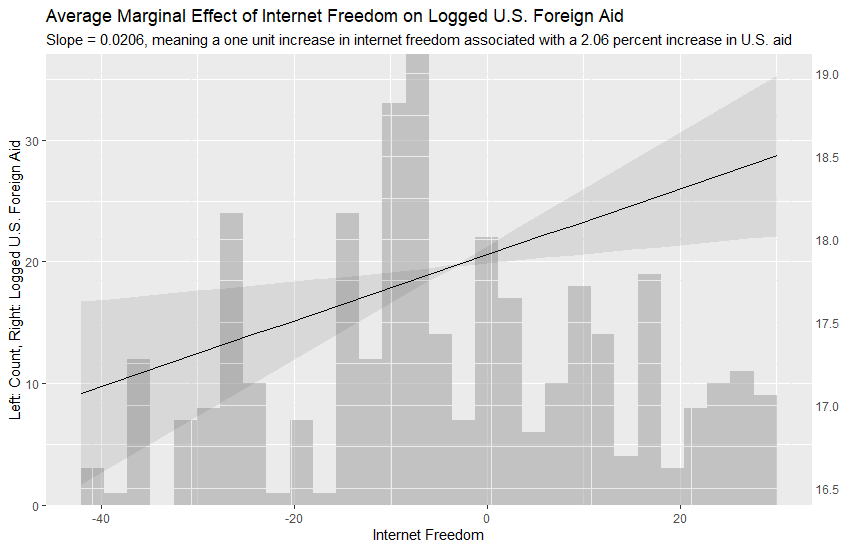
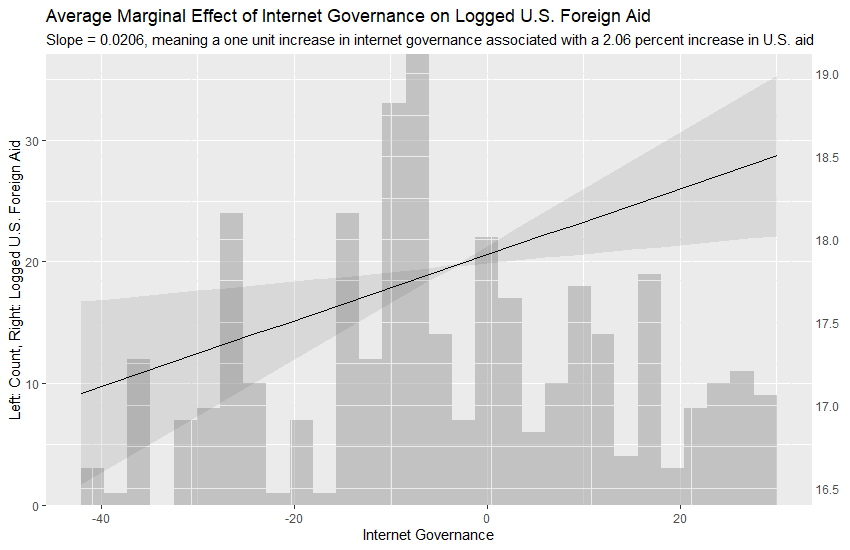
Updates from Overleaf

Changed region(s): [[0.3671, 0.0, 0.9788, 0.0927], [0.4282, 0.9582, 0.5812, 0.9891]]

diff --git a/Paper.tex b/Paper.tex
@@ -1,6 +1,6 @@
 \documentclass[12pt]{article}
 \usepackage[utf8]{inputenc}
-\title{\vspace{-2.75cm}Conflating Global Finance with Technological Competition: The U.S.'s Reaction to Chinese Foreign Aid\vspace{-0.5cm}}
+\title{\vspace{-2.75cm}Technological Change and U.S. Foreign Aid\vspace{-0.5cm}}
 \author{Nicholas Ray}
 \date{\vspace{-0.30cm}December 7 2022\vspace{-1cm}}
 \usepackage[margin=1in]{geometry}
@@ -41,20 +41,24 @@
 \begin{document}
 \maketitle
 \begin{abstract}
-    Emphasize policy! \blindtext
+    I argue that the U.S. is funding digital infrastructure in Africa to prevent the Chinese from building such infrastructure and closing market access to U.S. technology firms. Testing the implications that U.S. foreign aid spending is directly related to a measure for internet governance and inversely related to Chinese aid, I find mixed results in a sample of 44 African countries from 2010-2017. U.S. aid seems directly related to both internet governance and Chinese spending.
 \end{abstract}
 
 \textit{Keywords}: Foreign Aid, Internet Governance, Africa
 
 \section*{Introduction}
-\footnote{All data and code can be found on GitHub at https://github.com/nnray/Analysis. In the ``Code'' folder, navigate to ``628.Rmd'' for my R script. My full \LaTeX \;file can be found at https://github.com/nnray/628 under ``Paper.tex''.}
+The United States (U.S.) has been increasingly funding digital infrastructure in countries around the world.\footnote{All R code, data, and \LaTeX \;code can be found at  underlying my analysis can be found on GitHub at https://github.com/nnray.} Simultaneously, the People's Republic of China (China) has advanced its own digital infrastructure projects and financial assistance to become the ``lender of first resort'' for developing countries in the last decade \parencite[1]{dreher2022}. Available explanations do not sufficiently address this seeming great power competition along digital infrastructure. In this article I put forth an explanation specifying that the U.S. is funding digital infrastructure in Africa to prevent the Chinese from building such infrastructure and closing market access to U.S. technology firms.
 
-\section*{What Needs Explaining?}
+I make two contributions in the exploration of this topic. Firstly, I add to the foreign aid literature by detailing a novel determinant of U.S. foreign aid and providing another clue on how Chinese money may have impacted Western donor behavior more generally. Secondly, I speak to literature on the liberal international order (LIO) and the concern that China may undermine tenets of the LIO. %expand on this a bit?
+
+I proceed as follows. In the next section, I introduce puzzling observations of recent U.S. behavior followed by a review of current explanations. After considering these accounts, I introduce my argument its implications. Then, I describe my research design before presenting findings and a discussion of contributions.
+
+\section*{What Needs Explaining}
 %U.S. digital infrastructure spending, other aid related to ICT/internet
 The U.S. has been increasingly funding digital infrastructure in countries around the world. In 2022, for example, the U.S. initiated the Partnership for Global Infrastructure and Investment (PGII) in collaboration with the other members of the Group of Seven (G7) that aims to spend \$600 billion on global infrastructure projects over the next five years (\cite{thewhitehouse2022}). Included in the PGII is a \$600 million contract to a U.S. telecommunications company to build submarine internet cables that connect Singapore to France via Egypt and the Horn of Africa. %other U.S. examples? IF programs? 
 
 %Chinese digital infrastructure spending
-This intention of the U.S. to build digital infrastructure closely resembles the behavior of China over the past two decades. Since engaging in their ``going out'' strategy of investing overseas to promote domestic economic growth, China has turned to funding massive infrastructure projects through its Belt and Road Initiative (BRI) and becoming the ``lender of first resort'' for developing countries (\parencite[1]{dreher2022}). Two years after announcing the BRI, China launched the largely symbolic (\cite{tugendhat2021}) Digital Silk Road (DSR) that still encapsulates China's desire to build global digital infrastructure favorable to them (\cite{shen2022}). Some examples of relevant Chinese projects are shown in table 1 \nocite{agbebi2022}.
+This intention of the U.S. to build digital infrastructure closely resembles the behavior of China over the past two decades. Since engaging in their ``going out'' strategy of investing overseas to promote domestic economic growth, China has turned to funding massive infrastructure projects through its Belt and Road Initiative (BRI) and becoming the ``lender of first resort'' for developing countries \parencite[1]{dreher2022}. Two years after announcing the BRI, China launched the largely symbolic (\cite{tugendhat2021}) Digital Silk Road (DSR) that still encapsulates China's desire to build global digital infrastructure favorable to them (\cite{shen2022}). Some examples of relevant Chinese projects are shown in table 1 \nocite{agbebi2022}.
 
 \subsubsection*{Table 1}
 \begin{figure}[htbp]
@@ -63,10 +67,10 @@ This intention of the U.S. to build digital infrastructure closely resembles the
 \end{figure}
 
 %the competition between U.S. and Chinese technology, digital infrastructure spending
-However, the U.S. and China do not seem to be cooperating in the effort to improve digital infrastructure worldwide. Just months before the PGII announcement, the U.S. pioneered a thinly veiled condemnation of China in the Declaration for the Future of the Internet in which more than 60 countries signed a pledge to engage in liberal internet governance (\cite{u.s.departmentofstate2022}). Further, policy analysts and scholars have a highlighted a U.S. concern over Chinese spending (\cite{hass2021}; \cite{triolo2020}; \cite{hillman2021}). But why exactly is the U.S. attempting to compete with China in foreign spending and why the digital aspect? %need more work here
+However, the U.S. and China do not seem to be cooperating in the effort to improve digital infrastructure worldwide. Just months before the PGII announcement, the U.S. pioneered a thinly veiled condemnation of China in the Declaration for the Future of the Internet in which more than 60 countries signed a pledge to engage in liberal internet governance (\cite{u.s.departmentofstate2022}). Further, policy analysts and scholars have a highlighted a U.S. concern over Chinese spending (\cite{hass2021}; \cite{triolo2020}; \cite{hillman2021}). Consequently, it appears that the U.S. and China are both separately spending on digital infrastructure projects while the U.S. actively opposes China's doing so.
 
 \section*{Extant Explanations}
-For a comprehensive but not exhaustive overview of the literature on foreign aid determinants, see Fuchs, Dreher, and Nunnenkamp 2014 \nocite{fuchs2014} (Table 1, p. 173). Simplistically, the foreign aid literature has explained donor behavior as the result of either recipient need or self-interested motivations, with the self-interested reasons being categorizable as political or economic. Focusing on the determinants of U.S. foreign aid, I argue that the extant explanations do not fully capture either the technology focus of current U.S. aid behavior or the antagonistic nature of said behavior. 
+There are some tentative explanations offered by the global finance literature for this competitive spending behavior surrounding technology. For a comprehensive but not exhaustive overview of the literature on foreign aid determinants, see Fuchs, Dreher, and Nunnenkamp 2014 \nocite{fuchs2014} (Table 1, p. 173). Simplistically, the foreign aid literature has explained donor behavior as the result of either recipient need or self-interested motivations, with the self-interested reasons being categorizable as political or economic. Focusing on the determinants of U.S. foreign aid, I argue that the extant explanations do not fully capture either the technology focus of current U.S. aid behavior or the antagonistic nature of said behavior. 
 
 There is evidence that the U.S. takes recipient need into account when allocating aid. Measured primarily as gross domestic product (GDP) per capita, Hoeffler and Outram (2011) \nocite{hoeffler2011} show that the U.S. spends more on poorer countries and that it matters little if there exists human rights abuses or non-democratic rule. Theoretically, U.S. spending on digital infrastructure could certainly contain some intention to meet recipient need and provide better technology, but it is not clear why the U.S. would be be in opposition to China's own digital infrastructure spending if that were the case. %mckinlay and buthe
 
@@ -75,28 +79,26 @@ The traditional account of U.S. aid behavior though focuses on self-interested m
 Politically, numerous authors highlight how counter-terrorism in the wake of the September 11$^{th}$ attacks resulted in an increase in U.S. aid after post-Cold War declines (e.g., \cite{fleck2010}; \cite{bearce2010b}). There have been mixed findings on how the democratic status of recipients and how voting records in the United Nations (UN) influences U.S. aid. Some scholars find a positive relationship between U.S. aid and recipient democracy (\cite{alesina2000}) or for the influence of similar UN voting patterns (\cite{alesina2000}; \cite{fuchs2014}), while others find substantially weaker evidence for both (\cite{hoeffler2011}). Meanwhile, there is no evidence that the U.S. factors in the human rights record of recipients (\cite{hoeffler2011}). It is possible that the U.S. is returning to a Cold War foreign aid mindset, where the aid they give is entirely concerned with strategically opposing their adversary (\cite{bearce2010b}). This would explain the antagonism with China, but not why there should be contention surrounding digital infrastructure and technology. %tingley, brech, fleck, dietrich
 
 \section*{My Explanation}
-I contend that an explanation of current U.S. foreign spending behavior that addresses both why it has a strong focus on technology and why this focus seems opposed to China should be based on both political and economic determinants related to technology. Specifically, I argue that the U.S. has a policy preference for more liberal internet governance, or the rules and norms surrounding the internet in a country,  because a liberal internet enables Western technology to operate within that country. That is, I claim that U.S. aid can be described by the political determinant of liberal internet governance and the economic determinant of market access for Western technology firms. 
+I contend that an explanation of current U.S. foreign spending behavior must address both why it has a strong focus on technology and why this focus seems opposed to China. I argue that the U.S. is willing to spend aid on providing digital infrastructure because it allows them to build technology in U.S. fashion and thereby better protect U.S. technology market access to countries liable to Chinese technology influence. It is in the U.S.'s interest to attempt technological superiority over the Chinese, which is threatened by China's recent spreading of its technologies and companies to some recipient countries (see \cite{hass2021} for some suggestive anecdotal evidence).
 
-I will next define internet governance and why it is a political determinant for U.S. aid. Internet governance was defined in the second phase of the World Summit on the Information Society (WSIS), a meeting led by the UN's International Telecommunication Union (ITU), which was held in Tunis, Tunisia in 2005. It is ``the development and application by governments, the private sector and civil society, in their respective roles, of shared principles, norms, rules, decision-making procedures, and programmes that shape the evolution and use of the Internet'' \nocite{worldsummitontheinformationsociety2005} (World Summit on the Information Society 2005, item 34). Essentially, internet governance refers to the way in which governments, firms, and citizens interact with the internet.
+If this is true, it should also be true that the U.S. is spending more in countries with more liberal internet governance since these are the countries that most allow for the use of U.S. technology. Further, these countries are likely not being invested in by China, whose aid is suspected on negatively affecting internet governance (e.g., \cite{triolo2020}; \cite{hillman2021}; \cite{u.s.departmentofstate2022}).
 
-The U.S. is concerned about internet governance because there is evidence that the West believes China to be spreading its illiberal model of the internet (e.g., \cite{hillman2021}; \cite{u.s.departmentofstate2022}), or at least that there is a good chance for it to (\cite{triolo2020}).
-
-However, I argue that the U.S. focus on internet governance is not simply about the politics of a liberal internet, such as preferences for democracy or human rights. Firstly, according to the literature there is little evidence that U.S. government aid discriminates much along the lines of human rights (\cite{hoeffler2011}) or even democracy (\cite{alesina2000}; \cite{hoeffler2011}). Rather, I argue that the U.S.'s interest in propping up internet governance around the world chiefly lies in the desire to prevent countries of using the internet in a manner similar to China (\cite{hass2021}), which is more likely to occur with the increase in global Chinese spending.
-
-\section*{Implications}
-If U.S. foreign spending is truly concerned with internet governance and the economic benefits of inhibiting China's suspected illiberal influence, then it should also be true that the internet governance of potential recipients should be a strong predictor of U.S. foreign aid over time. This implication leads to the following hypothesis:
-\begin{align*}
-    H_{1}&:\;\text{U.S. aid should be empirically related to recipient internet governance}\\
-\end{align*}
+Internet governance was defined in the second phase of the World Summit on the Information Society (WSIS), a meeting led by the UN's International Telecommunication Union (ITU), which was held in Tunis, Tunisia in 2005. It is ``the development and application by governments, the private sector and civil society, in their respective roles, of shared principles, norms, rules, decision-making procedures, and programmes that shape the evolution and use of the Internet'' \nocite{worldsummitontheinformationsociety2005} (World Summit on the Information Society 2005, item 34). Essentially, internet governance refers to the way in which governments, firms, and citizens interact with the internet. The U.S. should be expected to allocate more aid to countries with higher measures of internet governance if they are truly bolstering U.S. firm access to technology markets.
 
 \section*{Empirics}
-I test this hypotheses by regressing U.S. foreign aid on a measure of internet governance, Chinese aid and controls across 44 African countries between 2010 and 2017. The full set of countries includes: Algeria, Angola, Benin, Botswana, Burundi, Cabo Verde, Cameroon, Central African Republic, Chad, Comoros, Republic of the Congo, Cote d'Ivoire, Democratic Republic of the Congo, Djibouti, Egypt, Equatorial Guinea, Ethiopia, Gabon, Gambia, Ghana, Guinea, Guinea-Bissau, Kenya, Lesotho, Liberia, Madagascar, Malawi, Mali, Mauritania, Mauritius, Morocco, Mozambique, Namibia, Niger, Nigeria, Rwanda, Senegal, Sierra Leone, South Africa, Togo, Tunisia, Uganda, Zambia, and Zimbabwe. 
+Restating the implications of my argument, U.S. foreign aid should be directly related to recipient country internet governance since the U.S. is trying to build infrastructure that allows for an economically and politically liberal environment for U.S. technology to thrive. These same environments are most likely to exist in a country not financed by China, since China is sharing technology along with its money that could negatively affect recipient internet governance. Thus I will evaluate the following hypotheses:
+
+\begin{align*}
+    H_{1}&:\;\text{U.S. aid should be directly related to recipient internet governance}\\
+    H_{2}&:\;\text{U.S. aid should be inversely related to Chinese aid}\\
+\end{align*}
+I test these hypotheses by regressing U.S. foreign aid on a measure of internet governance, Chinese aid and controls across 44 African countries between 2010 and 2017. The full set of countries includes: Algeria, Angola, Benin, Botswana, Burundi, Cabo Verde, Cameroon, Central African Republic, Chad, Comoros, Republic of the Congo, Cote d'Ivoire, Democratic Republic of the Congo, Djibouti, Egypt, Equatorial Guinea, Ethiopia, Gabon, Gambia, Ghana, Guinea, Guinea-Bissau, Kenya, Lesotho, Liberia, Madagascar, Malawi, Mali, Mauritania, Mauritius, Morocco, Mozambique, Namibia, Niger, Nigeria, Rwanda, Senegal, Sierra Leone, South Africa, Togo, Tunisia, Uganda, Zambia, and Zimbabwe. 
 
 I chose to focus on Africa during this time period for three main reasons. Firstly, Africa has been a major area of focus for China's finance projects, with the Council on Foreign Relations claiming that ``China already provides more financing for information and communications technology than all multilateral agencies and leading democracies combined do across the continent'' (\cite{kurlantzicketal.2020}). Secondly, the data I use for Chinese spending ends in 2017. Thirdly, while 2010 is indeed an arbitrary starting point, it seems like a reasonable choice since both Chinese aid and the internet diminish greatly before this period.
 
 \subsection*{Data and Variables}
-%internet freedom
-In operationalizing my theory, I measure internet governance as ``internet freedom'' from the Digital Society Project (DSP) index. The DSP aims to identify ``how people use social media as a political tool and to explore how political institutions and social media use interact,'' providing data from expert surveys that cover a range of topics such as censorship, disinformation, and monitoring (\cite{mechkova2022}). The DSP employs methodology designed by the Varieties of Democracy project (V-Dem, \cite{coppedge2022}) to try and estimate differences in expert opinion and knowledge.
+%internet governance
+In operationalizing my theory, I measure internet governance using the Digital Society Project (DSP) index. The DSP aims to identify ``how people use social media as a political tool and to explore how political institutions and social media use interact,'' providing data from expert surveys that cover a range of topics such as censorship, disinformation, and monitoring (\cite{mechkova2022}). The DSP employs methodology designed by the Varieties of Democracy project (V-Dem, \cite{coppedge2022}) to try and estimate differences in expert opinion and knowledge.
 
 The DSP is one of two indices measuring a the concept of internet governance and data from the DSP is potentially superior for measuring the concept of internet liberalism in Africa compared to the primary alternative, Freedom on the Net (FOTN, \cite{freedomhouse2022}). FOTN frequently features missing data for the continent of Africa and does not take into account possible variations in expert opinion and knowledge like the DSP does.
 
@@ -107,7 +109,7 @@ The other main explanatory variable is Chinese foreign aid, stemming from the Co
 U.S. foreign aid is the dependent variable, measured as fiscal-year disbursements (\cite{u.s.agencyforinternationaldevelopment2022}). This data was more up-to-date than alternatives.
 
 %controls
-For controls, I include gross domestic product GDP per capita, an indicator for internet development, and a measure for political freedom as controls. Each of these phenomena are possible confounders, being theoretically related to at least one of the types of aid and internet freedom. 
+For controls, I include gross domestic product GDP per capita, an indicator for internet development, and a measure for political freedom as controls. Each of these phenomena are possible confounders, being theoretically related to at least one of the types of aid and internet governance. 
 
 GDP per capita is supplied by the United Nations (\cite{unitednationsstatisticsdivision2019}) while the indicator for internet development is provided by the ITU (\cite{internationaltelecommunicationunion2022}). This indicator is a proxy for how developed the internet is in a country and represents the percentage of the population using the internet. Lastly, the chosen measure for political freedom comes from Polity (\cite{marshall2018}).
 
@@ -125,14 +127,13 @@ Descriptive statistics can be seen in table 2 and 3 below. It should be noted th
 \end{figure}
 \pagebreak
 
-Description.
 \subsubsection*{Table 3}
 \begin{figure}[htbp]
     \includegraphics[scale=0.45]{Figures/summary.png}
 \end{figure}
 
 \pagebreak
-A correlation matrix of the variables included in my regressions is given in Figure 2. As can be seen, there are a couple relatively strong relationships between the variables. The variable for regime type, Polity, has a correlation of 0.62 with the internet freedom variable while logged GDP per capita has a correlation of 0.65 with the variable representing the percent of the population using the internet. While possible, I do not think that these correlations are high enough to warrant concerns over multicollinearity or the lack of linear independency in the data. Interestingly, logged U.S. Aid appears somewhat negatively correlated with logged GDP per capita and variable for the percent using the internet is somewhat positively correlated to that for internet freedom. However, all of these correlations are relatively small and should not induce concerns for multicollinearity, although I did not conduct a formal test for multicollinearity.
+A correlation matrix of the variables included in my regressions is given in Figure 2. As can be seen, there are a couple relatively strong relationships between the variables. The variable for regime type, Polity, has a correlation of 0.62 with the internet governance variable while logged GDP per capita has a correlation of 0.65 with the variable representing the percent of the population using the internet. While possible, I do not think that these correlations are high enough to warrant concerns over multicollinearity or the lack of linear independency in the data. Interestingly, logged U.S. Aid appears somewhat negatively correlated with logged GDP per capita and variable for the percent using the internet is somewhat positively correlated to that for internet governance. However, all of these correlations are relatively small and should not induce concerns for multicollinearity, although I did not conduct a formal test for multicollinearity.
 
 \pagebreak
 \subsubsection*{Figure 2}
@@ -145,10 +146,9 @@ I chose to use ordinary least squares (OLS) for my estimator while employing two
 
 \pagebreak
 \section*{Results}
-Table 2 displays regression results from a model with and without an interaction between internet freedom and logged Chinese foreign aid.
-\subsection*{Table 4}
+Table 2 displays regression results from a model with and without an interaction between internet governance and logged Chinese foreign aid.
 \begin{table}[!htbp] \centering 
-  \caption*{Logged U.S. Aid and Covariates with Two-way Fixed Effects and Clustered SE's on Country}
+  \caption{Logged U.S. Aid and Covariates with Two-way Fixed Effects and Clustered SE's on Country} 
   \label{} 
 \begin{tabular}{@{\extracolsep{5pt}}lcc} 
 \\[-1.8ex]\hline 
@@ -157,7 +157,7 @@ Table 2 displays regression results from a model with and without an interaction
 \cline{2-3} 
  & Model 1 & Model 2 \\ 
 \hline \\[-1.8ex] 
- Internet Freedom & 0.021$^{***}$ & 0.021$^{***}$ \\ 
+ Internet Governance & 0.021$^{***}$ & 0.021$^{***}$ \\ 
   & (0.008) & (0.008) \\ 
   & & \\ 
  Logged Chinese Aid & 0.006$^{*}$ & 0.006$^{*}$ \\ 
@@ -172,7 +172,7 @@ Table 2 displays regression results from a model with and without an interaction
  Polity & 0.004 & 0.004 \\ 
   & (0.031) & (0.031) \\ 
   & & \\ 
- Internet Freedom $\cdot$ Logged Chinese Aid &  & 0.00000 \\ 
+ Internet Governance * Logged Chinese Aid &  & 0.00000 \\ 
   &  & (0.0002) \\ 
   & & \\ 
 \hline \\[-1.8ex] 
@@ -187,14 +187,14 @@ F Statistic & 2.370$^{**}$ (df = 5; 296) & 1.968$^{*}$ (df = 6; 295) \\
 \end{table}
 \pagebreak
 
-The only covariates that appear statistically significant are internet freedom and Chinese spending. Both internet freedom and logged Chinese aid seem to increase logged U.S. aid on average when accounting for the other covariates. To gauge the substantive size of the coefficients, I plot the marginal effect of internet freedom on logged U.S. aid in Figure 3 and the marginal effect of logged Chinese aid on logged U.S. aid in Figure 4.
+The only covariates that appear statistically significant are internet governance and Chinese spending. Both internet governance and logged Chinese aid seem to increase logged U.S. aid on average when accounting for the other covariates. To gauge the substantive size of the coefficients, I plot the marginal effect of internet governance on logged U.S. aid in Figure 3 and the marginal effect of logged Chinese aid on logged U.S. aid in Figure 4, both from model 1 (seen in Table 2).
 
-Support for $H_1$?
+According to Table 2 and Figures 3 and 4, there is support for $H_1$. $H_2$ is contradicted by the evidence, meanwhile. However, I would be cautious about inferences from the results pertaining to logged Chinese aid as most of the values are zero, as can be seen in Figure 4. It is thus likely that the downward sloping line is overestimated due to all the zeros.
 
-Interestingly, there is a lack of support for an interaction between internet freedom and logged Chinese aid. Apparently, the effects of a recipient's internet freedom level and the amount of Chinese aid they are receiving have completely separate effects on U.S. aid. However, it is unclear how consequential this lack of support for the interaction term is, since both variables by themselves are significant and two-way fixed effects are used.
+I also tested for an interaction between internet governance and logged Chinese aid, which was not part of my theory. The interaction term is not significant according to standard levels (p=0.05).
 
 \pagebreak
-Figure 3 shows the marginal effect of internet freedom on logged U.S. foreign aid. The coefficient on the internet freedom variable is 0.0206, implying that a one unit increase in a recipient's internet freedom level is associated with an increase in U.S. aid by 2.08 percent on average, accounting for other covariates. This appears to be a substantively large effect.
+Figure 3 shows the marginal effect of internet governance on logged U.S. foreign aid. The coefficient on the internet governance variable is 0.0206, implying that a one unit increase in a recipient's internet governance level is associated with an increase in U.S. aid by 2.08 percent on average, accounting for other covariates. This appears to be a substantively large effect.
 
 \subsection*{Figure 3}
 \begin{figure}[htbp]
@@ -211,16 +211,16 @@ Figure 4 graphs the marginal effect of logged Chinese foreign aid on logged U.S.
 \pagebreak 
 
 \section*{Discussion}
-Discuss contribution and implications of support for $H_1$ in light of the literature on foreign aid and LIO.
+The support of $H_1$ but not $H_2$ indicate mixed results for my theory. However, it seems that robustness checks with mulitple other measures would be required to make more inferences about U.S. behavior, including for regime type and especially Chinese aid. The variable for Chinese aid contains mostly zeros with a few, large values that are qualified as outliers.
 
-
+To the extent that my theory is supported, I contribute to the foreign aid literature by detailing a potentially new determinant for U.S. behavior. The internet and technology as a foreign policy and geopolitical issue will only continue to rise, and it's important that scholarly theories keep pace with contemporary observation. Secondly, some international relations literature has expressed concerns that China will undermine common tenets of the LIO, such as economic or political liberalism (e.g., \cite{weiss2021a}). While I do not study China's behavior here, my analysis indicate somewhat that the U.S. behaves as if China is indeed damaging political and economic liberalism, especially as it relates to the liberal use of the internet.
 
 \section*{Conclusion}
-In this article I argue that . In particular, .
+In this article I argue that the U.S. is funding digital infrastructure in Africa to prevent the Chinese from building such infrastructure and closing market access to U.S. technology firms. I test the implications that U.S. foreign aid spending should be directly related to a measure for internet governance, or the rules and norms surrounding the internet, and inversely related to Chinese aid spending.
 
-Analyzing 44 African countries from 2010-2017, I find .
+Analyzing 44 African countries from 2010-2017, I find mixed results for the theory, as U.S. aid indeed seems directly related to internet governance but also directly related to Chinese spending.
 
-I suggest the following future work: Expanding sample to LA Extending years to 2000 Robustness checks with different measurements Greater differntiation between types of aid and money 
+In future work, other measures for Chinese spending and influence would be critical to analyzing their digital infrastructure activities in Africa that go poorly reflected in aid data. The deriving of other implications and more falsification attempts are also necessary to test this explanation for recent U.S. spending behavior. 
 
 \nocite{mechkova2022a}
 \nocite{pemstein2022}

diff --git a/Future.tex b/Future.tex
@@ -1,4 +1,5 @@
-treat more seriously the difference between types of aid or money (grants, loans, etc.)
+treat more seriously the difference between types of aid or money (grants/ODA, loans/OOF, etc.)
 expand sample (Latin America)
 more adequately explain Chinese behavior as well?
 endless work on the methods (reread Clark's Five Questions, do more and more robustness tests with different measures)
+endless work on theory
